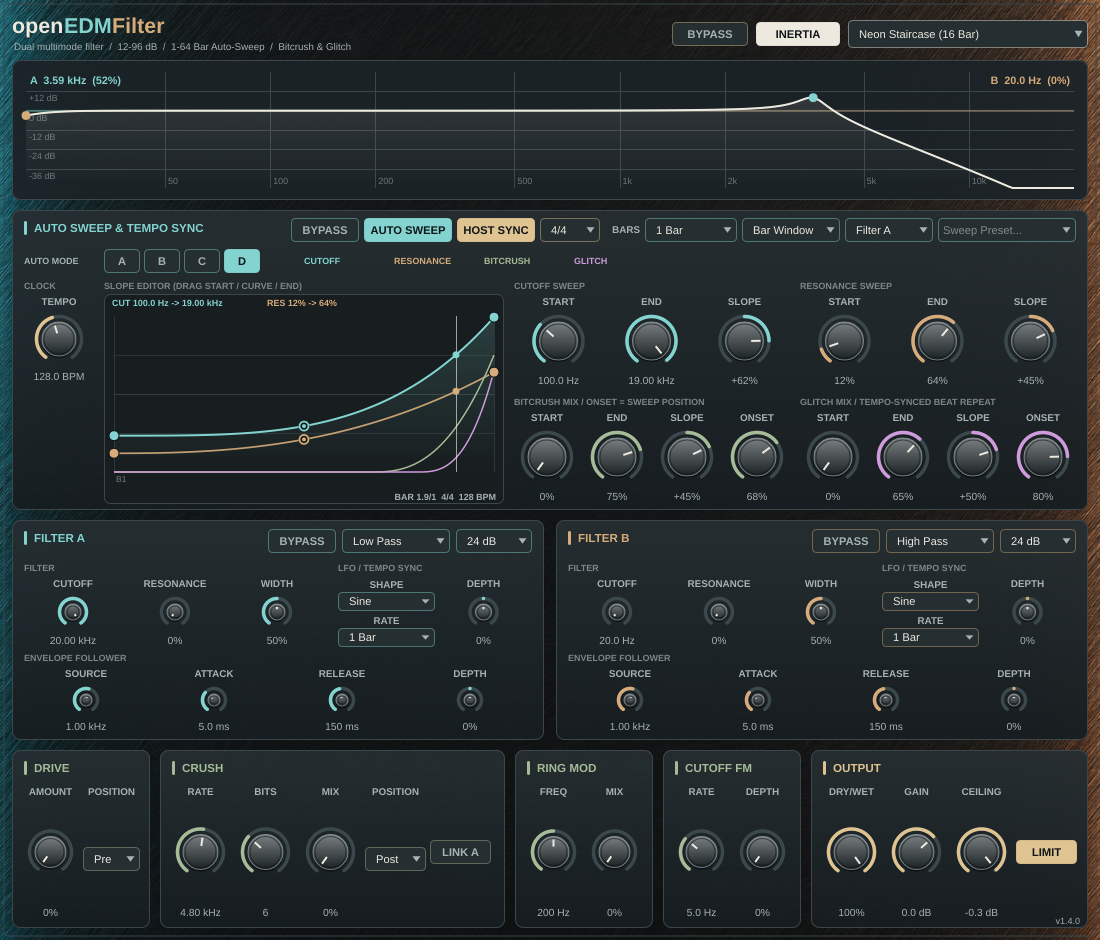
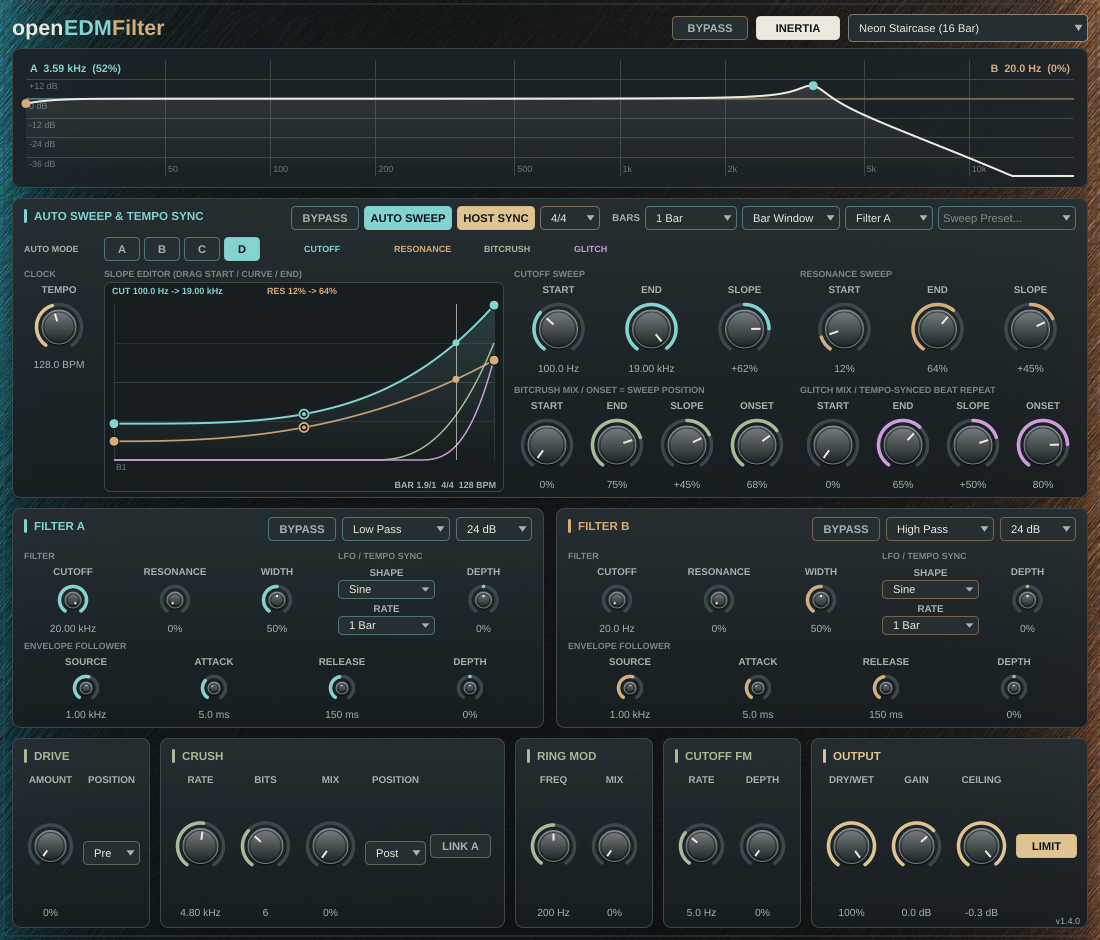
docs: drop slogan copy from the editor and README
Remove the header tagline and tighten that row. Rewrite the README
and screenshot note as control behavior and timing facts, including
the 1, 2 and 4 bar lengths.

diff --git a/Source/Plugin/PluginEditor.cpp b/Source/Plugin/PluginEditor.cpp
@@ -11,7 +11,7 @@ namespace theme = openedm::theme;
 constexpr int kEditorWidth = 1100;
 constexpr int kEditorHeight = 940;
 constexpr int kMargin = 12;
-constexpr int kHeaderHeight = 44;
+constexpr int kHeaderHeight = 32;
 constexpr int kResponseHeight = 140;
 constexpr int kSweepHeight = 300;
 constexpr int kBandHeight = 220;
@@ -60,7 +60,7 @@ void OpenEdmFilterEditor::paint(juce::Graphics& g) {
     g.setColour(theme::kPanelEdge);
     g.drawRoundedRectangle(getLocalBounds().toFloat().reduced(4), 5, 1);
 
-    const auto header = getLocalBounds().reduced(kMargin, 0).removeFromTop(kHeaderHeight + kMargin).withTrimmedTop(kMargin).withHeight(28);
+    const auto header = getLocalBounds().reduced(kMargin, 0).removeFromTop(kHeaderHeight + kMargin).withTrimmedTop(kMargin);
     g.setFont(juce::FontOptions(24.0f, juce::Font::bold));
     g.setColour(theme::kText);
     g.drawText("open", header, juce::Justification::centredLeft);
@@ -70,12 +70,6 @@ void OpenEdmFilterEditor::paint(juce::Graphics& g) {
     const int edmWidth = juce::GlyphArrangement::getStringWidthInt(g.getCurrentFont(), "EDM");
     g.setColour(theme::kAccentB);
     g.drawText("Filter", header.withTrimmedLeft(openWidth + edmWidth), juce::Justification::centredLeft);
-
-    g.setFont(juce::FontOptions(11.0f));
-    g.setColour(theme::kTextDim);
-    g.drawText("Dual multimode filter  /  12-96 dB  /  1-64 Bar Auto-Sweep  /  Bitcrush & Glitch",
-               header.translated(2, 28).withHeight(14).withWidth(620),
-               juce::Justification::centredLeft);
 }
 
 void OpenEdmFilterEditor::resized() {

diff --git a/README.md b/README.md
@@ -2,7 +2,7 @@
 
 [Install with OpenVST Manager](https://github.com/alanmarcero/alan-m-OpenVSTManager/releases/latest)
 
-A dual multimode filter plugin for EDM production. It provides two serial filters, four automatable auto-sweep slots with independent cutoff, resonance, bitcrush and glitch curves, LFO and envelope modulation, distortion and output limiting. Release packages contain VST3, LV2 and a standalone app on macOS, Windows and Linux; macOS also includes AU.
+Dual multimode filter. Two filters in series, four auto-sweep slots (cutoff, resonance, bitcrush, glitch), a per-filter LFO and envelope follower, drive, and a lookahead limiter. Release packages contain VST3, LV2 and a standalone app on macOS, Windows and Linux; macOS also includes AU.
 
 ![openEDMFilter native editor](assets/native-ui.png)
 
@@ -10,51 +10,51 @@ A dual multimode filter plugin for EDM production. It provides two serial filter
 
 ## Features
 
-- Two filters in series (A into B). Each one has low-pass, high-pass, band-pass and notch modes, 12, 24, 48 or 96 dB/oct slopes, resonance, and resonance width. Width also sets the band for band-pass and notch.
-- Full bypass per filter. The BYPASS button crossfades over 10 ms so it does not click. A fully bypassed filter does no processing, and its curve leaves the display.
-- **Tempo / Clock Sync & Time Signature engine**. Lock to the host DAW transport (`HOST SYNC`) or run on the internal clock (`40–240 BPM`) across any time signature (`4/4`, `3/4`, `2/4`, `5/4`, `6/4`, `6/8`, `7/8`, `9/8`, `12/8`, or automatic host time signature).
-- **1, 2, 4, 8, 16, 32, and 64 Bar Auto-Cutoff & Auto-Resonance Sweep**. The **BARS** selector sets the loop length. Cutoff and resonance follow that timeframe (`Bar Window`, `Every Bar`, `Up & Down`, or `Bar + Macro`) on Filter A, Filter B, Both A+B, or A/B Mirror, for every filter type and slope. The default is still 8 bars.
-- **A/B/C/D Auto Mode**. Switch between four independent sweep slots using the panel buttons or the host’s `Auto Mode` automation lane. Each slot stores its own length, target, playback mode and curves. Slot A retains the original parameter IDs for older sessions.
-- **Bitcrush and Glitch Sweeps**. Each slot has separate `Start`, `End`, `Slope` and `Onset` controls for both effect mixes. The graph shows all four curves. Glitch repeats the first sixteenth-note slice of each beat, with short fades at slice boundaries; very slow tempos use shorter synced subdivisions to fit the history buffer. Sweep bypass removes both automatic effects while preserving the manual crusher.
-- **Interactive Slope Editor**. Drag the start, curve midpoint, and end handles directly on the multi-bar graph (or use the dedicated Cutoff and Resonance `Start`, `End`, and `Slope` knobs) to shape exponential risers, logarithmic drops, and linear sweeps in real time. Double-click a midpoint handle to reset its curvature to linear.
-- **EDM Sweep Presets**. Includes factory presets and quick in-panel slope presets for EDM low-pass, high-pass, band-pass, and notch sweep ups, sweep downs, acid bar pumps, and 32/64-bar builds.
-- Tempo-synced LFO per filter. Five shapes (sine, triangle, saw up, saw down, square), rates from 1/32 to 8 bars with triplets, and bipolar depth. While the host plays, the phase locks to the host transport, so the LFO lands on the same point of the bar on every pass.
-- Envelope follower per filter. It has a source frequency (it listens to a band of the input), attack, release, and bipolar depth.
-- Cutoff FM. A sine oscillator modulates both cutoffs, up to audio rate.
-- Drive. tanh saturation, before or after the filters.
-- Crush. A sample-rate reducer and bit crusher, before or after the filters. LINK A makes the crush rate follow filter A's cutoff modulation.
-- Ring modulator with frequency and mix controls.
-- Output section. Dry/wet, gain, and a stereo-linked lookahead peak limiter with a ceiling.
-- Filter inertia. This smooths cutoff moves on 48 and 96 dB slopes to stop clicks. Turn it off for faster, harder gating.
-- 34 factory presets, available from the preset menu and as host programs, plus 12 quick sweep presets in the Auto-Sweep panel.
-- Live response display. It shows both curves and the combined curve, and follows the Auto-Sweep, LFO, envelope and FM in real time. Drag a band's marker to set its cutoff (left and right) and resonance (up and down).
-- 2x oversampling. Everything before the limiter runs at twice the host rate, so drive, ring mod and fast FM alias less. The plugin reports 110 samples of latency (47 for the oversampler, 63 for the limiter lookahead), so hosts compensate for it.
-- All parameters can be automated in the host.
+- Two filters in series (A into B). Each has low-pass, high-pass, band-pass and notch, slopes of 12, 24, 48 or 96 dB/oct, resonance, and resonance width. Width also sets the band for band-pass and notch.
+- BYPASS on a filter crossfades over 10 ms. A bypassed filter does no processing, and its curve leaves the display.
+- HOST SYNC follows the host transport. Off, the internal clock runs from 40 to 240 BPM. Time signatures: 4/4, 3/4, 2/4, 5/4, 6/4, 6/8, 7/8, 9/8, 12/8. The 4/4 entry uses the host signature when the host sends one.
+- Auto-sweep lengths are 1, 2, 4, 8, 16, 32 and 64 bars. The BARS menu sets the length for the selected slot. Modes are Bar Window, Every Bar, Up & Down, and Bar + Macro. Targets are Filter A, Filter B, Both A+B, and A/B Mirror. The default length is 8 bars.
+- Slots A, B, C and D each store length, target, mode and curves. The panel buttons and the Auto Mode parameter select the slot. Slot A keeps the original parameter IDs.
+- Each slot has Start, End, Slope and Onset for the bitcrush mix and the glitch mix. The graph draws cutoff, resonance, bitcrush and glitch. Glitch repeats the first sixteenth-note slice of each beat, with short fades at the slice edges. Very slow tempos use a shorter synced subdivision so the slice fits the history buffer. Sweep bypass removes the automatic effects and leaves the manual crusher.
+- Drag the start, midpoint and end handles on the graph, or use Cutoff and Resonance Start, End and Slope. Slope above 0 bends the curve up in octaves (exponential); slope below 0 bends it the other way (logarithmic); 0 is linear. Double-click a midpoint to reset that slope to 0.
+- The preset menu and the slope preset menu in the Auto Sweep panel include low-pass, high-pass, band-pass and notch sweeps, plus 32-bar and 64-bar builds.
+- Each filter has an LFO: sine, triangle, saw up, saw down, square. Rates run from 1/32 to 8 bars, with triplets. Depth is bipolar. While the host is playing, the phase locks to the transport.
+- Each filter has an envelope follower with source frequency, attack, release and bipolar depth. It listens to a band of the input around the source frequency.
+- Cutoff FM is one sine oscillator on both cutoffs, up to audio rate.
+- Drive is tanh saturation, before or after the filters.
+- Crush is a sample-rate reducer and bit crusher, before or after the filters. LINK A makes the crush rate follow filter A's cutoff modulation.
+- The ring modulator has frequency and mix.
+- Output has dry/wet, gain, and a stereo-linked lookahead peak limiter with a ceiling.
+- Filter inertia uses a 30 ms smoother on cutoff moves for 48 and 96 dB slopes. Off, those slopes use a 2 ms smoother.
+- There are 34 factory presets in the preset menu and as host programs, and 12 slope presets in the Auto Sweep panel.
+- The response display shows each filter curve and the combined curve, including the auto-sweep, LFO, envelope and FM. Drag a band marker horizontally for cutoff and vertically for resonance.
+- The signal before the limiter runs at twice the host sample rate. Reported latency is 110 samples: 47 from the oversampler and 63 from the limiter lookahead.
+- Every parameter can be automated.
 
 VST2 and AAX are not built by this project.
 
-## Auto mode and late-sweep effects
+## Auto mode
 
-Turn on **AUTO SWEEP**, select **A**, **B**, **C** or **D**, and edit that slot’s curves. The **BARS** menu sets that slot to **1 Bar**, **2 Bars**, **4 Bars**, **8 Bars**, **16 Bars**, **32 Bars** or **64 Bars**. Automate **Auto Mode** or **Sweep Bars** in the host.
+Turn on AUTO SWEEP, select A, B, C or D, and edit that slot. BARS sets 1 Bar, 2 Bars, 4 Bars, 8 Bars, 16 Bars, 32 Bars or 64 Bars for the selected slot. Auto Mode and Sweep Bars can be automated.
 
-With host sync on, playback locks the sweep to the current tempo and time signature. Phase advances sample by sample from the block-start playhead. A stopped host holds the sweep on that playhead. Sync off, or a host with no playhead, uses the internal clock. One bar is the quarter-note length of the active signature (four quarters in 4/4). The 4/4 menu entry follows the host signature when the host provides one. Sessions saved before the 1-bar and 2-bar choices keep their original 4, 8, 16, 32 or 64 bar length, and the default is still 8 bars.
+With HOST SYNC on, playback locks the sweep to the current tempo and time signature. Phase steps per sample from the block-start playhead. A stopped host holds the sweep on that playhead. HOST SYNC off, or a host that sends no playhead, uses the internal clock. One bar is the quarter-note length of the active signature (four quarters in 4/4). The 4/4 menu entry follows the host signature when the host sends one. A session saved before the 1-bar and 2-bar choices keeps its 4, 8, 16, 32 or 64 bar length. The default is 8 bars.
 
-Cutoff, resonance and effect mix changes are smoothed. All four slots are saved with the session; loading an older session restores its original sweep in A with automatic effects off.
+Cutoff, resonance and effect-mix changes are smoothed. The session stores all four slots. An older session loads its sweep into A with the automatic bitcrush and glitch mixes at 0.
 
-For a clean opening and a textured finish, keep the effect **Start** at 0%, set **Onset** to 75% or later, then raise **End** and adjust **Slope**. Onset is a position within the sweep trajectory: `Every Bar` repeats it each bar, and `Up & Down` retraces it on the return. Bitcrush uses the main **Crush Rate**, **Bits** and **Position** controls; its sweep mix blends on top of the manual mix. Glitch follows the host or internal clock. The quick preset menu changes the selected slot.
+To bring an effect in late, set Start to 0%, Onset to 75% or later, then raise End and set Slope. Onset is a position in the sweep: Every Bar repeats it each bar, and Up & Down retraces it on the way back. Bitcrush still uses Crush Rate, Bits and Position; the sweep mix is applied on top of the manual mix. Glitch follows the host clock or the internal clock. The slope preset menu edits the selected slot only.
 
-Four new factory presets include increasingly intense A–D variations:
+These presets write all four slots. Slots B, C and D raise the cutoff slope, resonance and effect-mix ends from the slot A values:
 
-- **Silk to Static (8 Bar)**: an opening low-pass with subtle late texture and a small glitch finish.
-- **Neon Staircase (16 Bar)**: a longer rising sweep with six-bit crunch and stutter near the end.
-- **Last Bar Breakdown (8 Bar)**: a descending sweep that adds both effects in the final bar.
-- **Mainstage Fracture (32 Bar)**: a high-pass build ending in four-bit crunch and beat repeats.
+- Silk to Static (8 Bar): low-pass, 80 Hz to 18 kHz, 10-bit crush. Crush and glitch start at 0 and rise after 72% and 85% of the sweep.
+- Neon Staircase (16 Bar): low-pass, 100 Hz to 19 kHz, 6-bit crush. Crush and glitch rise after 68% and 80%.
+- Last Bar Breakdown (8 Bar): low-pass, 18 kHz down to 350 Hz, 5-bit crush. Both mixes rise after 87.5%.
+- Mainstage Fracture (32 Bar): high-pass, 30 Hz to 4.8 kHz, 4-bit crush. Crush rises after 75%; glitch rises after 87.5% and ends at full mix on slot D.
 
 ## Install
 
 1. Download and install [OpenVST Manager](https://github.com/alanmarcero/alan-m-OpenVSTManager/releases/latest) for macOS or Windows.
 2. Open the manager and refresh the catalog.
-3. Choose **openEDMFilter**, select **VST3** (or **AU** on macOS), and install.
+3. Choose openEDMFilter, select VST3 (or AU on macOS), and install.
 4. Rescan plugins in your DAW. If you chose a custom install folder, add it to the DAW's search paths.
 
 The source version is 1.4.0. Published release packages are still [v1.3.0](https://github.com/alanmarcero/openEDMFilter/releases/tag/v1.3.0) until the next tag. For manual installation, download your platform ZIP from that release. The macOS package is universal (Apple Silicon/Intel), with a macOS 11 deployment target. Windows and Linux packages are x64.
@@ -62,7 +62,7 @@ The source version is 1.4.0. Published release packages are still [v1.3.0](https
 | Format | macOS | Windows | Linux |
 | --- | --- | --- | --- |
 | VST3 | `~/Library/Audio/Plug-Ins/VST3/` | `C:\Program Files\Common Files\VST3\` | `~/.vst3/` |
-| AU | `~/Library/Audio/Plug-Ins/Components/` | — | — |
+| AU | `~/Library/Audio/Plug-Ins/Components/` | n/a | n/a |
 | LV2 | `~/Library/Audio/Plug-Ins/LV2/` | Your host's LV2 search folder | `~/.lv2/` |
 
 Extract and copy the entire bundle to the appropriate folder, then rescan your host. OpenVST Manager installs VST3/AU; install LV2 and run the included standalone app manually. Standalone mode uses its own clock because there is no DAW transport.

diff --git a/docs/SCREENSHOTS.md b/docs/SCREENSHOTS.md
@@ -2,7 +2,7 @@
 
 ![Native plugin editor](../assets/native-ui.png)
 
-`assets/native-ui.png` shows the v1.4.0 native JUCE editor at 1100 × 940, captured from the release build on 2026-11-06. It displays the **Neon Staircase** curves in **Auto Mode D** with the **BARS** selector set to **1 Bar**, and the playhead at 90% of that one-bar window. This is a component render of the actual editor, not a mockup or a DAW screenshot.
+`assets/native-ui.png` is the v1.4.0 editor at 1100 x 940, captured from the release build on 2026-11-06. Neon Staircase curves, Auto Mode D, BARS set to 1 Bar, playhead at 90% of that bar. It is a component render of the editor.
 
 Reproduce on macOS from the repository root:
 
